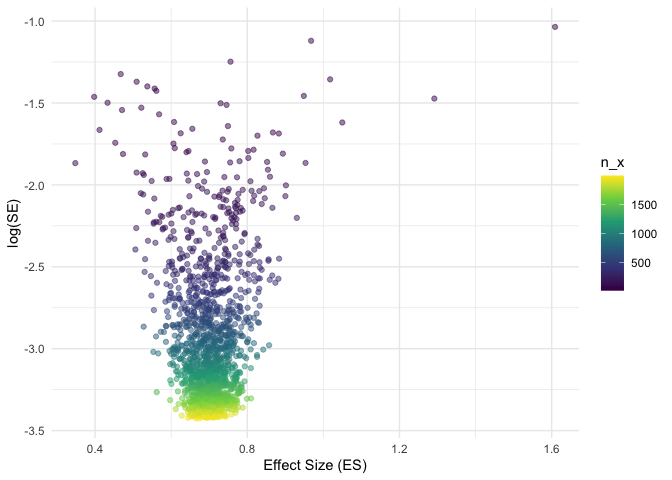
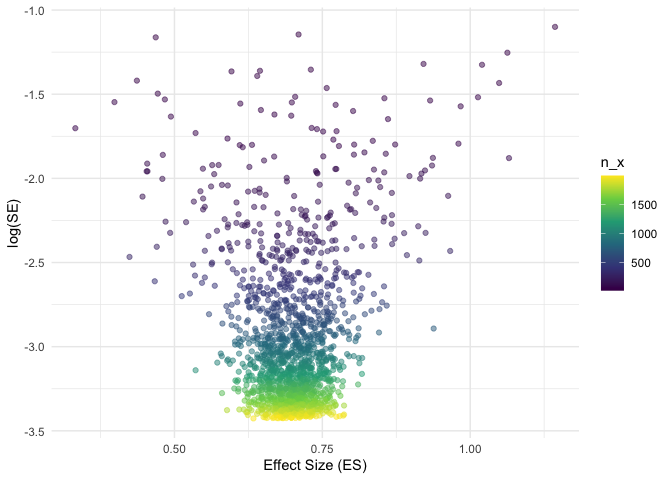
adding random effects model to readme

diff --git a/README.md b/README.md
@@ -45,14 +45,14 @@ sim <- sim_meta(min_obs = 20,
 
 head(sim$data_aggr)
 #> # A tibble: 6 × 10
-#>   study hedges_g     se mean_x  mean_y  sd_x  sd_y   n_x   n_y      vi
-#>   <int>    <dbl>  <dbl>  <dbl>   <dbl> <dbl> <dbl> <int> <int>   <dbl>
-#> 1     1    0.694 0.0415  0.708  0.0154 1.01  0.983  1234  1234 0.00172
-#> 2     2    0.699 0.0394  0.704  0.0113 0.973 1.01   1364  1364 0.00156
-#> 3     3    0.736 0.0330  0.725 -0.0206 1.02  1.01   1958  1958 0.00109
-#> 4     4    0.691 0.0429  0.657 -0.0244 0.984 0.989  1150  1150 0.00184
-#> 5     5    0.629 0.0888  0.655  0.0642 0.903 0.972   266   266 0.00789
-#> 6     6    0.641 0.0513  0.684  0.0388 1.01  1.00    799   799 0.00263
+#>   study hedges_g     se mean_x   mean_y  sd_x  sd_y   n_x   n_y      vi
+#>   <int>    <dbl>  <dbl>  <dbl>    <dbl> <dbl> <dbl> <int> <int>   <dbl>
+#> 1     1    0.817 0.0466  0.758 -0.0605  0.970 1.03   1000  1000 0.00217
+#> 2     2    0.671 0.0641  0.728  0.0571  1.01  0.991   514   514 0.00411
+#> 3     3    0.723 0.0332  0.704 -0.00956 0.984 0.988  1936  1936 0.00110
+#> 4     4    0.680 0.0356  0.655 -0.0177  0.990 0.987  1674  1674 0.00126
+#> 5     5    0.640 0.0354  0.697  0.0644  0.997 0.978  1682  1682 0.00125
+#> 6     6    0.723 0.112   0.772  0.0265  1.05  1.01    171   171 0.0125
 ```
 
 # Effect size and standard error
@@ -79,8 +79,9 @@ ggplot(sim$data_aggr, aes(x = hedges_g, y = log(se), color = n_x))+
   scale_color_viridis_c()
 ```
 
-<img src="man/figures/README-unnamed-chunk-3-1.png" width="100%" /> \#
-Run Meta-Analysis
+<img src="man/figures/README-unnamed-chunk-3-1.png" width="100%" />
+
+# Run Meta-Analysis on simulated data
 
 ``` r
 require(meta)
@@ -104,29 +105,29 @@ summary(metaanalysis)
 #> Review:     Meta-Analysis fixed-effect
 #> 
 #>       SMD           95%-CI %W(common)
-#> 1  0.6945 [0.6132; 0.7757]       12.1
-#> 2  0.6992 [0.6219; 0.7765]       13.4
-#> 3  0.7362 [0.6715; 0.8009]       19.1
-#> 4  0.6910 [0.6069; 0.7752]       11.3
-#> 5  0.6287 [0.4546; 0.8028]        2.6
-#> 6  0.6414 [0.5408; 0.7419]        7.9
-#> 7  0.7295 [0.6377; 0.8214]        9.5
-#> 8  0.6779 [0.5088; 0.8471]        2.8
-#> 9  0.7108 [0.6312; 0.7903]       12.6
-#> 10 0.7017 [0.6057; 0.7977]        8.7
+#> 1  0.8174 [0.7262; 0.9086]        9.8
+#> 2  0.6706 [0.5450; 0.7963]        5.2
+#> 3  0.7232 [0.6582; 0.7882]       19.3
+#> 4  0.6802 [0.6105; 0.7498]       16.8
+#> 5  0.6404 [0.5711; 0.7097]       17.0
+#> 6  0.7227 [0.5040; 0.9415]        1.7
+#> 7  0.7278 [0.6298; 0.8258]        8.5
+#> 8  0.8572 [0.5502; 1.1642]        0.9
+#> 9  0.6227 [0.5411; 0.7042]       12.3
+#> 10 0.7110 [0.6142; 0.8078]        8.7
 #> 
 #> Number of studies: k = 10
 #> 
 #>                        SMD           95%-CI     z p-value
-#> Common effect model 0.7023 [0.6740; 0.7306] 48.68       0
+#> Common effect model 0.6966 [0.6681; 0.7252] 47.82       0
 #> 
 #> Quantifying heterogeneity:
-#>  tau^2 = 0 [0.0000; 0.0009]; tau = 0 [0.0000; 0.0292]
-#>  I^2 = 0.0% [0.0%; 62.4%]; H = 1.00 [1.00; 1.63]
+#>  tau^2 = 0.0017 [0.0000; 0.0109]; tau = 0.0413 [0.0000; 0.1046]
+#>  I^2 = 40.1% [0.0%; 71.4%]; H = 1.29 [1.00; 1.87]
 #> 
 #> Test of heterogeneity:
-#>     Q d.f. p-value
-#>  3.72    9  0.9288
+#>      Q d.f. p-value
+#>  15.01    9  0.0905
 #> 
 #> Details on meta-analytical method:
 #> - Inverse variance method
@@ -140,4 +141,83 @@ summary(metaanalysis)
 forest(metaanalysis)
 ```
 
-<img src="man/figures/README-unnamed-chunk-5-1.png" width="100%" />
+<img src="man/figures/README-unnamed-chunk-5-1.png" width="100%" /> \#
+Simulate Random-Effects model
+
+``` r
+sim <- sim_meta(min_obs = 20,
+         max_obs = 2000,
+         n_studies = 1500,
+         es_true = 0.7,
+         es = 'SMD',
+         fixed = FALSE,
+         random = TRUE,
+         tau = 0.05,
+         varnames = c('x', 'y'))
+
+head(sim$data_aggr)
+#> # A tibble: 6 × 10
+#>   study hedges_g     se mean_x  mean_y  sd_x  sd_y   n_x   n_y      vi
+#>   <int>    <dbl>  <dbl>  <dbl>   <dbl> <dbl> <dbl> <int> <int>   <dbl>
+#> 1     1    0.692 0.0368  0.766  0.0731 1.02  0.984  1562  1562 0.00136
+#> 2     2    0.810 0.0549  0.713 -0.0802 0.993 0.964   717   717 0.00302
+#> 3     3    0.738 0.0344  0.668 -0.0818 1.03  1.00   1807  1807 0.00118
+#> 4     4    0.841 0.0468  0.775 -0.0366 0.946 0.984   992   992 0.00219
+#> 5     5    0.692 0.0433  0.648 -0.0452 0.973 1.03   1133  1133 0.00187
+#> 6     6    0.700 0.0780  0.750  0.0648 1.00  0.955   349   349 0.00608
+```
+
+Run Random-Effects Meta-Analysis
+
+``` r
+require(meta)
+
+metaanalysis <- metagen(TE = hedges_g,
+                 seTE = se,
+                 studlab = study,
+                 data = sim$data_aggr %>% filter(study <= 10),
+                 sm = "SMD",
+                 fixed = FALSE,
+                 random = TRUE,
+                 method.tau = 'PM',
+                 method.random.ci = "HK",
+                 title = "Meta-Analysis fixed-effect")
+
+summary(metaanalysis)
+#> Review:     Meta-Analysis fixed-effect
+#> 
+#>       SMD           95%-CI %W(random)
+#> 1  0.6921 [0.6199; 0.7643]       13.9
+#> 2  0.8099 [0.7023; 0.9176]        8.9
+#> 3  0.7384 [0.6710; 0.8058]       14.8
+#> 4  0.8408 [0.7490; 0.9326]       10.8
+#> 5  0.6921 [0.6073; 0.7769]       11.8
+#> 6  0.7000 [0.5471; 0.8528]        5.3
+#> 7  0.7420 [0.6708; 0.8132]       14.1
+#> 8  0.6451 [0.5714; 0.7188]       13.7
+#> 9  0.8325 [0.5407; 1.1244]        1.7
+#> 10 0.7927 [0.6330; 0.9524]        5.0
+#> 
+#> Number of studies: k = 10
+#> 
+#>                              SMD           95%-CI     t  p-value
+#> Random effects model (HK) 0.7339 [0.6881; 0.7797] 36.25 < 0.0001
+#> 
+#> Quantifying heterogeneity:
+#>  tau^2 = 0.0016 [0.0000; 0.0111]; tau = 0.0396 [0.0000; 0.1053]
+#>  I^2 = 43.8% [0.0%; 73.1%]; H = 1.33 [1.00; 1.93]
+#> 
+#> Test of heterogeneity:
+#>      Q d.f. p-value
+#>  16.02    9  0.0665
+#> 
+#> Details on meta-analytical method:
+#> - Inverse variance method
+#> - Paule-Mandel estimator for tau^2
+#> - Q-Profile method for confidence interval of tau^2 and tau
+#> - Hartung-Knapp adjustment for random effects model (df = 9)
+
+forest(metaanalysis)
+```
+
+<img src="man/figures/README-unnamed-chunk-7-1.png" width="100%" />
